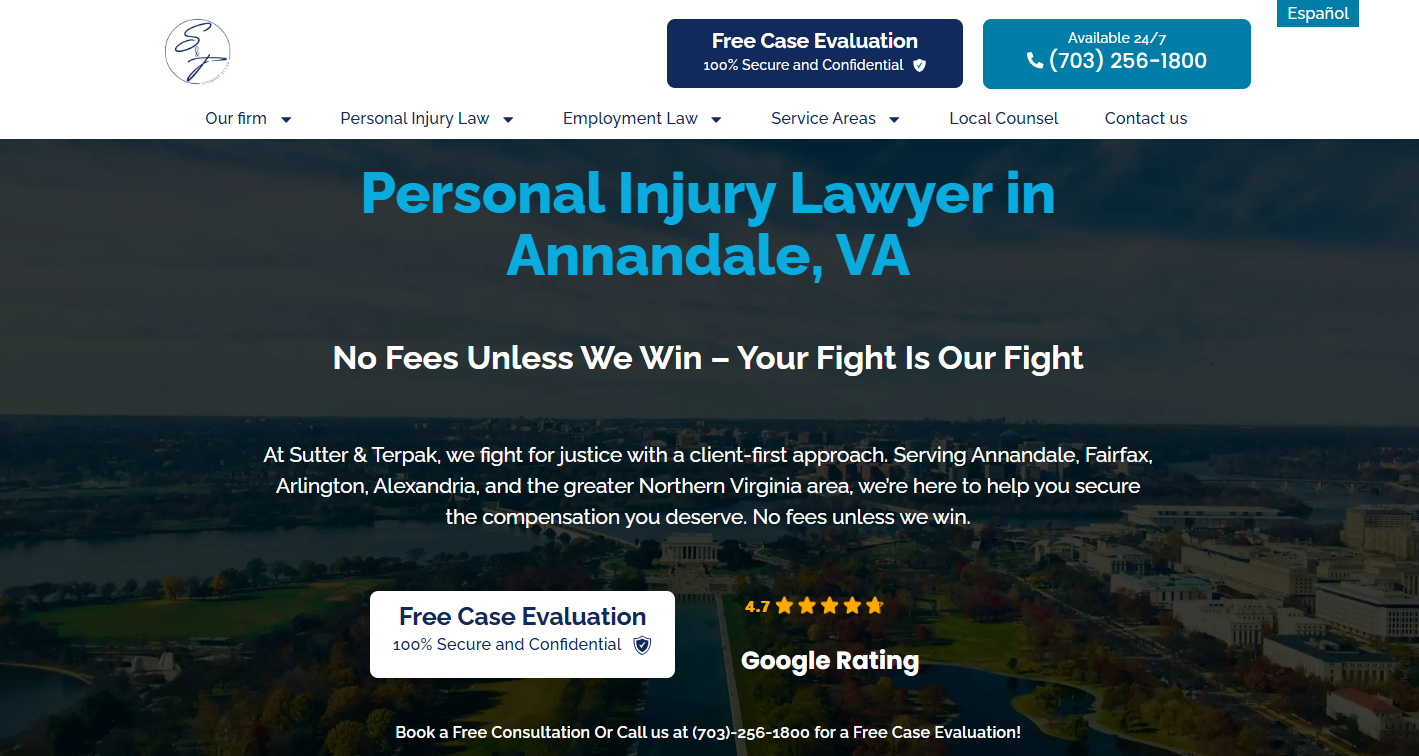
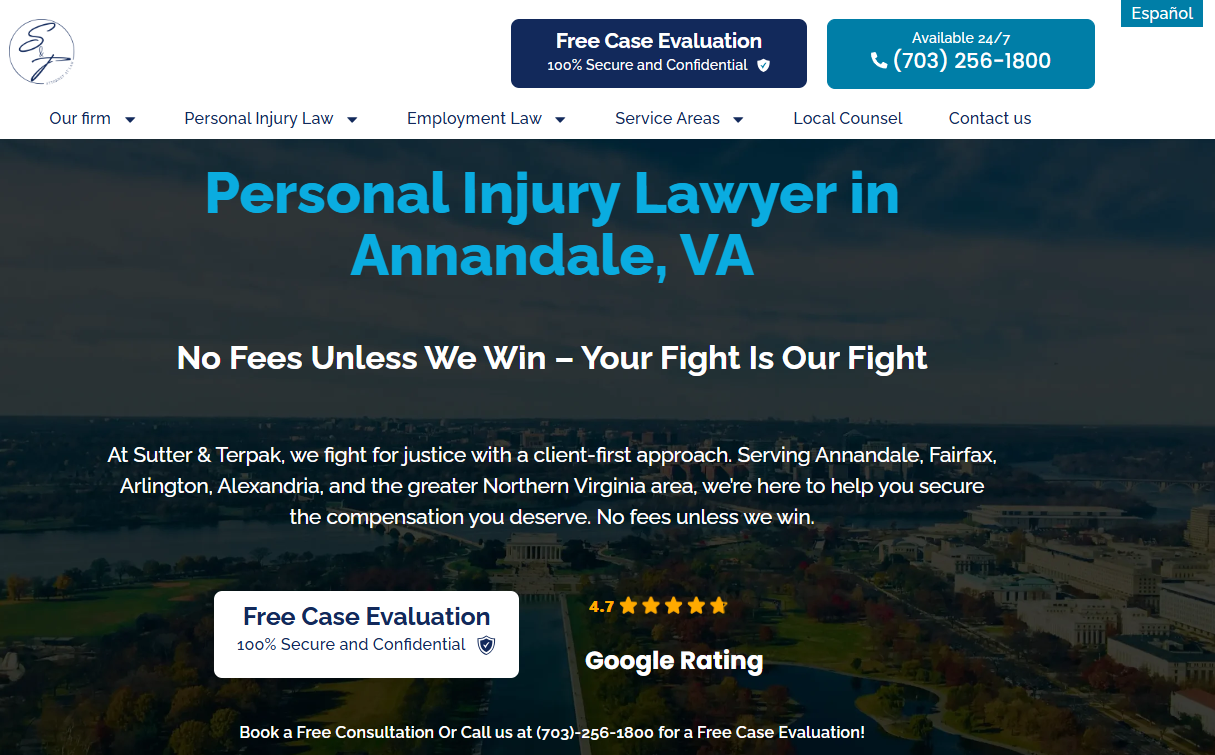
in-progress

diff --git a/portfolio.html b/portfolio.html
@@ -21,19 +21,23 @@
     </nav>
   </header>
   <main>
-    <section class="portfolio">
-        <h1>Lorem ipsum dolor sit, amet consectetur adipisicing elit.</h1> 
-        <h3>Lorem ipsum, dolor sit amet consectetur adipisicing elit. Nobis, repudiandae.</h3>
-        <h2>Lorem, ipsum dolor.</h2>
-        <p>Lorem ipsum dolor sit, <b>amet consectetur adipisicing elit.</b>amet consectetur adipisicing elit. <a href="">Distinctio, sit atque</a>. Error fuga corporis minima?</p>
-        <ul class="portfolio-list">
-            <li>Lorem, ipsum dolor.</li>
-            <li>Lorem, ipsum dolor.</li>
-            <li>Lorem, ipsum dolor.</li>
-            <li>Lorem, ipsum dolor.</li>
-        </ul> 
+    <section class="portfolio-featured">
+        <div class="featured-grid">
+            <div>
+                <span>Featured</span>
+                <h1>Lorem ipsum dolor sit, amet consectetur adipisicing elit.</h1> 
+                <h3>Lorem ipsum, dolor sit amet consectetur adipisicing elit. Nobis, repudiandae.</h3>
+                <p>Lorem ipsum dolor sit, <b>amet consectetur adipisicing elit.</b>amet consectetur adipisicing elit. <a href="">Distinctio, sit atque</a>. Error fuga corporis minima?</p>
+                <div class="cs-readm-btn">
+                    <a href=""><button>Read Case Study &#8594;</button></a>
+                </div>
+            </div>
+            <img src="images/sutter&terpak_cover_photo.png" alt="">
+        </div>
+    </section>
+    <section class="casestudies">
+      <h2>Lorem ipsum dolor sit amet.</h2>  
         <div class="casestudies-grid">
-
             <div class="casestudies-card">
                 <div class="card-img">
                     <img  src="images/LegalServe-coverphoto-casestudy.png" alt="">
@@ -124,9 +128,14 @@
     </section>
     <!---WHO NEEDS LOCAL SEO-->
     <section>
+        <h2>Lorem ipsum dolor sit amet.</h2>
+        <p>Lorem ipsum dolor sit amet consectetur adipisicing elit. Esse voluptate doloremque iure animi voluptatum similique nam accusantium dicta soluta libero distinctio amet illum repellat, ducimus quibusdam eaque, facere perspiciatis. Dolor veritatis eum sit earum architecto similique alias in voluptate non laudantium cum dignissimos veniam, possimus neque esse. Fugit, quidem harum!</p>
+        <h3>Lorem ipsum dolor sit amet.</h3>
     </section>
     <!---ABOUT ME-->
-    <section></section>
+    <section>
+        
+    </section>
     <!---TESTIMONIALS-->
     <section></section>
   </main>

diff --git a/styles.css b/styles.css
@@ -24,8 +24,8 @@
 }
 
 body {
-  min-height: 100vh;
   margin: auto;
+  padding: 0;
   max-width: 1440px;
   overflow-x: hidden;
   font-family: var(--font-style-body);
@@ -225,6 +225,26 @@ header {
 
 
 /**PORTFOLIO***/
+.featured-grid {
+  display: grid;
+  grid-template-columns: 1fr 1fr;
+  place-items: start;
+  padding: 8rem 0 0 0;
+  gap: 2rem;
+  width: 100%;
+}
+.featured-grid img {
+  width: 100%;
+  margin: 0;
+  padding: 0;
+  border-radius: 12px;
+  object-fit: cover;
+  border: 1px solid rgba(128, 128, 128, 0.225);
+  box-shadow: var(--box-shadow); 
+}
+.portfolio h2 {
+  text-align: center;
+}
 .portfolio a {
   text-decoration: none;
   color: #3182ce;
@@ -241,7 +261,12 @@ header {
   list-style-type: circle;
   margin-left: 1rem;
 }
-
+.casestudies {
+  padding: 8rem 0 0 0;
+}
+.casestudies h2 {
+  text-align: center;
+}
 .casestudies-grid {
   padding: 2rem 0;
   display: grid;
